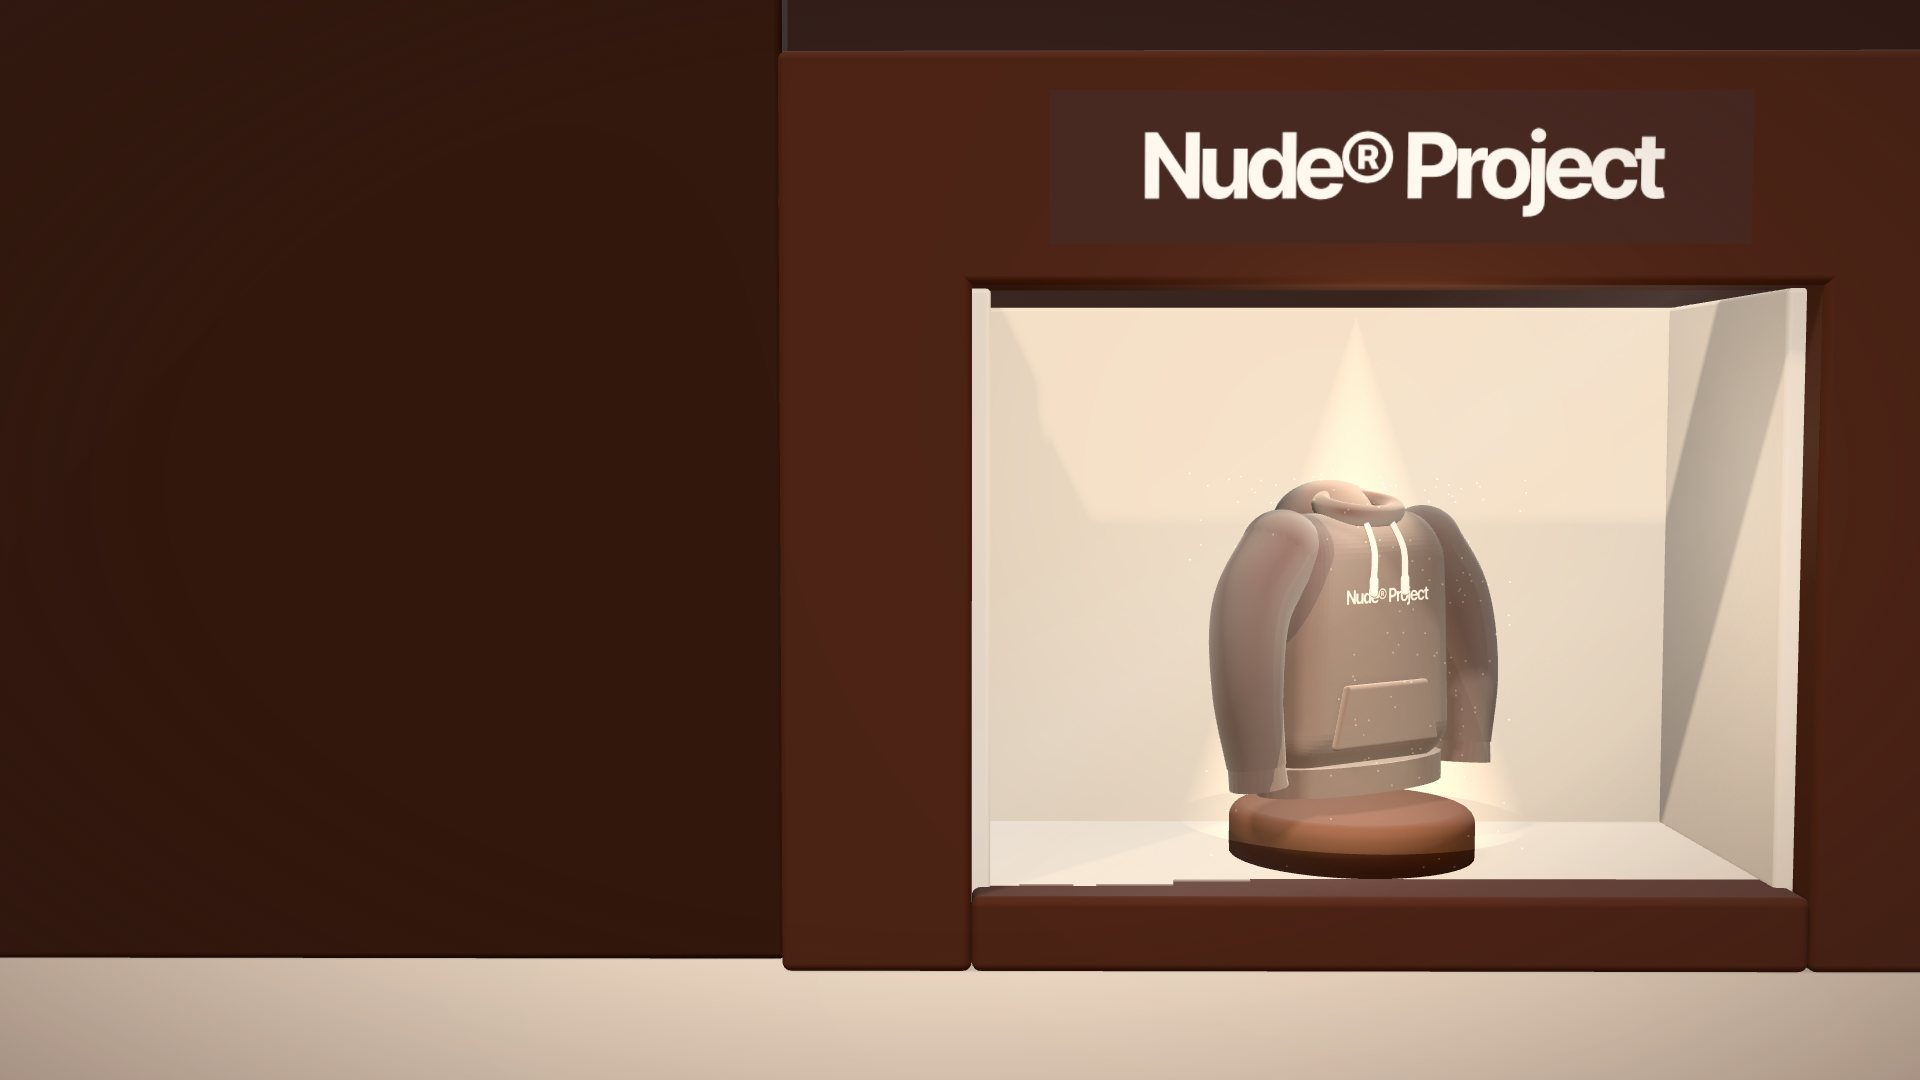
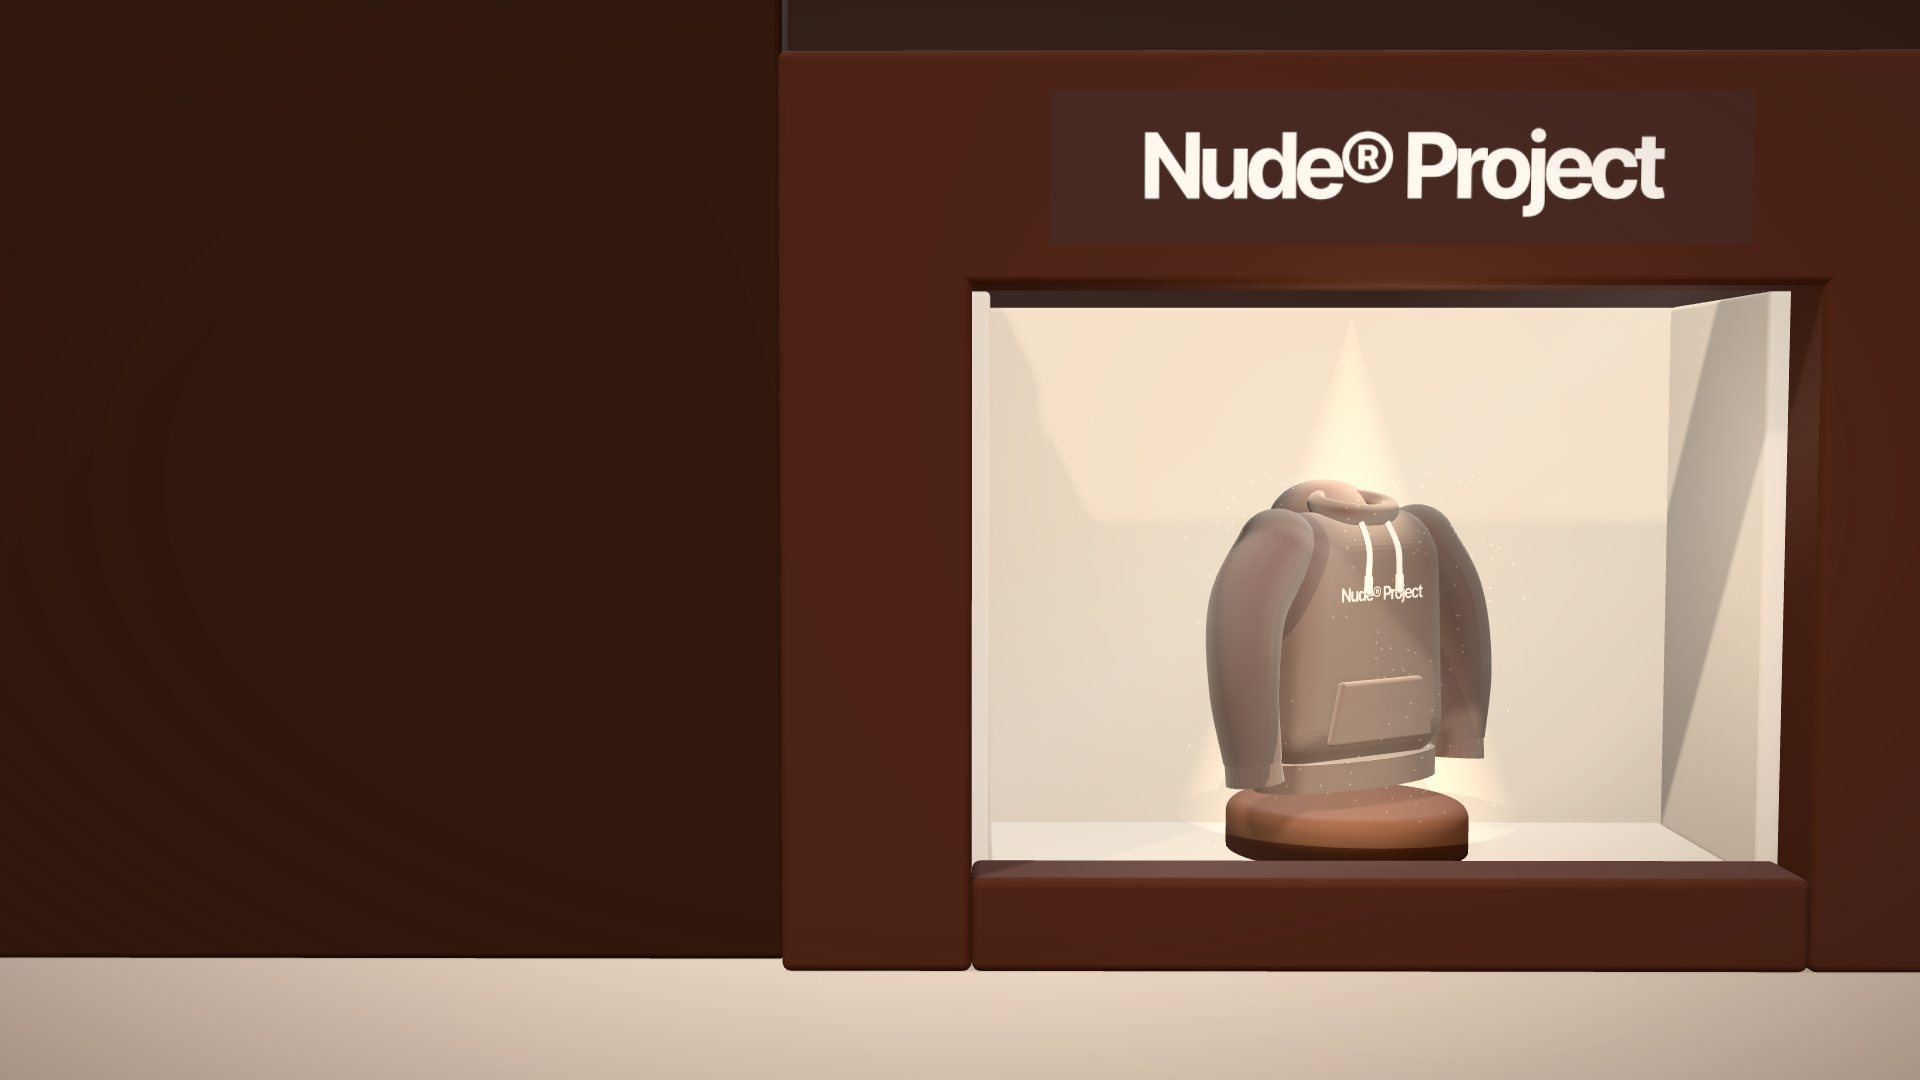
Presentación: pared viral visible y vidriera sin titileo
- Viral: pared de 24 celulares (8×3) con corazones que brotan de las
  pantallas; la sudadera, más chica, se corre hacia el texto y tapa apenas
  una esquina.
- Drop Rush: el zócalo de la vidriera y el piso interior compartían la cara
  de arriba y titilaban (z-fighting). Ahora el zócalo sobresale 10 cm, las
  piezas del interior ya no se pisan y el pedestal queda separado del zócalo.
- Mismo arreglo para el zócalo de la pared de acento de la Nude House.
- Imágenes de respaldo regeneradas.

Claude-Session: https://claude.ai/code/session_013aB8h25UpNoZyg8ESEKa9q

Changed region(s): [[0.5, 0.2444, 0.9688, 0.8556], [0.625, 0.4889, 0.6562, 0.5194]]

diff --git a/design-system/escena/mundo.js b/design-system/escena/mundo.js
@@ -415,34 +415,42 @@ function corazonGeo() {
 }
 function estacionViral(g) {
   g.add(pisoSombra());
-  // Panel con la misma publicación en todos los celulares, como cuando algo se hace viral.
+  // Pared de celulares con la misma publicación, como cuando algo se hace viral. La prenda queda a la izquierda,
+  // junto al texto, y la pared ocupa el resto: la tapa apenas en una esquina.
   const tex = publicacionViral();
   const panel = new THREE.Group();
-  const cols = 5, filas = 2, pw = 0.66, ph = pw * 2.1, sx = 0.9, sy = ph + 0.2;
-  panel.add(caja(cols * sx + 0.24, filas * sy + 0.3, 0.16, C.marca.arena, 0, 0, -0.08, 0.08));
-  for (let i = 0; i < cols; i++) for (let j = 0; j < filas; j++) {
+  const cols = 8, filas = 3, pw = 0.48, ph = 1.0, sx = 0.6, sy = 1.12;
+  panel.add(caja(cols * sx + 0.24, (filas - 1) * sy + ph + 0.4, 0.14, C.marca.arena, 0, 0, -0.07, 0.07));
+  const pantallas = [];
+  for (let j = 0; j < filas; j++) for (let i = 0; i < cols; i++) {
     const c = celular(tex, pw, ph, false);
-    c.position.set((i - (cols - 1) / 2) * sx, 0.25 + j * sy, 0.08);
+    c.position.set((i - (cols - 1) / 2) * sx, 0.2 + j * sy, 0.08);
     panel.add(c);
+    pantallas.push(c.position.clone());
   }
-  panel.position.set(1.5, 0, -3.6);
+  panel.position.set(2.25, 0, -3.2);
+  panel.rotation.y = -0.1;
   g.add(panel);
-  // Corazones que suben a los costados de la prenda (nunca la cruzan por delante).
+  // Corazones que brotan de los celulares (likes en vivo): suben un poco delante de su pantalla y se apagan.
   const geo = corazonGeo();
   const mat = clay(C.acento.rosa, { roughness: 0.8 });
-  const corazones = Array.from({ length: 12 }, (_, i) => {
+  const corazones = Array.from({ length: 14 }, (_, i) => {
     const m = malla(geo, mat);
-    const lado = i % 2 ? 1 : -1;
-    m.userData = { lado, x: lado * (lado > 0 ? 1.55 + (i % 3) * 0.22 : 1.5 + (i % 3) * 0.12), z: -0.35 + ((i * 7) % 5) * 0.16, fase: (Math.floor(i / 2) / 6), s: 0.24 + (i % 3) * 0.05 };
+    const origen = pantallas[(i * 11) % pantallas.length].clone().add(V(0, 0.3, 0.22)).applyAxisAngle(V(0, 1, 0), panel.rotation.y).add(panel.position);
+    m.userData = { origen, fase: i / 14, s: 0.15 + (i % 3) * 0.03 };
     g.add(m);
     return m;
   });
   const ancla = new THREE.Object3D();
-  ancla.position.set(0, 0.32 + LEVITA, 0);
-  g.add(ancla, pedestal(P['pedestal-crema'], 0.9));
+  ancla.position.set(0, 0.3 + LEVITA, 0.3);
+  const ped = pedestal(P['pedestal-crema'], 0.75, 0.3);
+  ped.position.z = 0.3;
+  g.add(ancla, ped);
   let reloj = 0;
   return {
-    tema: 'crema', encuadre: 'editorial', ancla, escala: 0.9,
+    tema: 'crema', encuadre: 'editorial', ancla, escala: 0.72,
+    // La prenda a ~57 % del ancho (no al 72 % de siempre), para dejarle lugar a la pared.
+    mira: V(1.2, 1.6, 0),
     actualizar(dt, t, presencia) {
       // Contador de likes: arranca cuando llega la cámara y sube hasta pasar el medio millón.
       reloj = presencia > 0.95 ? reloj + dt : presencia < 0.05 ? 0 : reloj;
@@ -451,10 +459,10 @@ function estacionViral(g) {
       const crecer = smoothstep(presencia, 0.3, 1);
       for (const m of corazones) {
         const d = m.userData;
-        const v = (t / 6 + d.fase) % 1; // 0 → 1 mientras sube
-        m.position.set(d.x + Math.sin((t + d.fase * 9) * 1.3) * 0.08, 0.5 + v * 3.0, d.z);
-        m.rotation.set(0, Math.sin(t + d.fase * 6) * 0.5, d.lado * -0.15);
-        m.scale.setScalar(d.s * crecer * Math.sin(Math.PI * Math.min(v * 1.15, 1)));
+        const v = (t / 2.6 + d.fase) % 1; // 0 → 1 mientras sube
+        m.position.copy(d.origen).add(V(Math.sin((t + d.fase * 9) * 2) * 0.04, v * 0.6, 0));
+        m.rotation.set(0, Math.sin(t + d.fase * 6) * 0.4, 0);
+        m.scale.setScalar(d.s * crecer * Math.sin(Math.PI * v));
       }
     },
   };
@@ -464,7 +472,7 @@ function estacionExperiencial(g) {
   // Piso de madera, pared clara detrás del texto y pared de acento marrón (el tono de la tienda) detrás de la prenda.
   habitacion(g, { x0: -7, x1: 7, piso: P['casa-piso'], pared: C.juego['fachada-1'] });
   g.add(fondo(caja(8.6, 6, 0.32, P['casa-pared'], 2.7, -0.3, -4.24, 0.04)));
-  g.add(fondo(caja(8.6, 0.14, 0.05, C.marca.crema, 2.7, 0, -4.06, 0.02)));
+  g.add(fondo(caja(8.6, 0.16, 0.07, C.marca.crema, 2.7, 0, -4.045, 0.02))); // más alto y profundo que el de la pared clara: no comparten caras
   const neon = new THREE.Mesh(new THREE.PlaneGeometry(2.4, 0.6), new THREE.MeshBasicMaterial({ map: neonNudeHouse(), transparent: true, toneMapped: false, depthWrite: false }));
   neon.position.set(0.9, 3.35, -4.06);
   g.add(fondo(neon));
@@ -661,13 +669,15 @@ function estacionDropRush(g) {
   g.add(fondo(caja(18, 0.4, 3.2, C.juego.vereda, 0, -0.4, 0.4, 0.06)));
   const tienda = C.juego.tienda;
   const fachada = new THREE.Group();
+  // El zócalo de la vidriera sobresale 10 cm del piso interior, y cada pieza termina donde empieza la otra:
+  // dos caras a la misma altura que se pisan titilan (z-fighting).
   fachada.add(caja(1.0, 4.8, 0.5, tienda, -2.7, 0, -1.1, 0.05), caja(1.0, 4.8, 0.5, tienda, 2.7, 0, -1.1, 0.05),
-    caja(6.4, 1.2, 0.5, tienda, 0, 3.6, -1.1, 0.05), caja(4.4, 0.4, 0.5, tienda, 0, 0, -1.1, 0.05));
+    caja(6.4, 1.2, 0.5, tienda, 0, 3.6, -1.1, 0.05), caja(4.4, 0.5, 0.5, tienda, 0, 0, -1.1, 0.05));
   // Paredes vecinas, más oscuras, para que la vidriera sea la única luz de la calle.
   fachada.add(caja(5, 6, 0.4, C.marca['cacao-profundo'], -5.7, 0, -1.3, 0.04), caja(5, 6, 0.4, C.marca['cacao-profundo'], 5.7, 0, -1.3, 0.04));
   // Interior de la vidriera: fondo cálido iluminado.
-  fachada.add(caja(4.4, 3.4, 0.2, C.juego['fachada-1'], 0, 0.2, -3.0, 0.03), caja(4.4, 0.2, 2.0, C.marca.arena, 0, 0.2, -2.1, 0.03));
-  fachada.add(caja(0.2, 3.4, 2.0, C.marca.arena, -2.2, 0.2, -2.1, 0.03), caja(0.2, 3.4, 2.0, C.marca.arena, 2.2, 0.2, -2.1, 0.03));
+  fachada.add(caja(4.6, 3.4, 0.2, C.juego['fachada-1'], 0, 0.2, -3.0, 0.03), caja(4.2, 0.2, 1.55, C.marca.arena, 0, 0.2, -2.125, 0.03));
+  fachada.add(caja(0.2, 3.4, 1.55, C.marca.arena, -2.2, 0.2, -2.125, 0.03), caja(0.2, 3.4, 1.55, C.marca.arena, 2.2, 0.2, -2.125, 0.03));
   const cartel = new THREE.Mesh(new THREE.PlaneGeometry(3.6, 0.78), new THREE.MeshBasicMaterial({ toneMapped: false, map: cartelTienda() }));
   cartel.position.set(0, 4.2, -0.84);
   fachada.add(cartel);
@@ -679,17 +689,17 @@ function estacionDropRush(g) {
     gr.addColorStop(0.5, 'rgba(255,255,255,.05)'); gr.addColorStop(0.62, 'rgba(255,255,255,.14)'); gr.addColorStop(0.75, 'rgba(255,255,255,0)');
     ctx.clearRect(0, 0, w, h); ctx.fillStyle = gr; ctx.fillRect(0, 0, w, h);
   });
-  const vidrio = new THREE.Mesh(new THREE.PlaneGeometry(4.4, 3.2), new THREE.MeshBasicMaterial({ map: reflejo, transparent: true, depthWrite: false, opacity: 0.55 }));
-  vidrio.position.set(0, 2.0, -0.9);
+  const vidrio = new THREE.Mesh(new THREE.PlaneGeometry(4.4, 3.1), new THREE.MeshBasicMaterial({ map: reflejo, transparent: true, depthWrite: false, opacity: 0.55 }));
+  vidrio.position.set(0, 2.05, -0.9);
   vidrio.renderOrder = 3;
   g.add(fondo(vidrio));
   const ped = pedestal(P['pedestal-cacao'], 0.7, 0.28);
-  ped.position.set(0, 0.4, -2.0);
+  ped.position.set(0, 0.4, -2.15); // a 10 cm del zócalo y de la pared del fondo
   g.add(ped);
   const ancla = new THREE.Object3D();
-  ancla.position.set(0, 0.68 + LEVITA, -2.0);
+  ancla.position.set(0, 0.68 + LEVITA, -2.15);
   g.add(ancla);
-  const f = foco(g, 0, 3.5, -2.0, 2.9, 1.0);
+  const f = foco(g, 0, 3.5, -2.15, 2.9, 1.0);
   const interior = new THREE.PointLight(P['luz-principal'], 6, 6, 2);
   interior.position.set(0, 2.6, -0.6);
   g.add(interior);

diff --git a/presentacion/index.html b/presentacion/index.html
@@ -143,7 +143,7 @@
         <p class="dato-vivo np-capa__entra"><span class="dato-vivo__icono" aria-hidden="true">♥</span><span><b>+<span data-contar="500000">500.000</span></b> likes en menos de 24 h</span></p>
       </div>
       <aside class="notas">
-        <p><em>La pared de celulares repite la publicación; los corazones suben a los costados y el contador pasa el medio millón.</em></p>
+        <p><em>La pared de 24 celulares repite la publicación; los corazones brotan de las pantallas y el contador pasa el medio millón.</em></p>
         <p>“Lo viral está en el ADN de la marca. Su primera sudadera, con la frase <i>pretty girls like trap music</i>, se volvió viral en una noche y les trajo 60.000 seguidores en 24 horas.</p>
         <p>La campaña que elegimos es <b>Out of Office</b>, de fines de agosto de 2025: una remera con un mensaje irónico sobre volver al trabajo, <i>Heading to work because I was too shy to dance on TikTok in 2020</i>. Superó el medio millón de likes en Instagram en menos de 24 horas.</p>
         <p>¿Por qué funcionó? Por el <b>tono</b>: ironía y humor. Por el <b>mensaje</b>: le habla a la frustración de quien, si hubiera hecho TikToks en 2020, hoy no tendría que entrar a trabajar a las 9. Por la <b>estética</b>: se fotografió en el metro, un escenario cotidiano y nada glamoroso. Por el <b>contexto</b>: salió justo cuando todos volvían de vacaciones. Y porque el <b>producto es el mensaje</b>: quien se pone la remera comparte el chiste.</p>

diff --git a/presentacion/PLANIFICACION.md b/presentacion/PLANIFICACION.md
@@ -127,7 +127,7 @@ Se arma en Three.js con piezas redondeadas (ver [`escena/sudadera.js`](../design
 | **0. Portada + hype colectivo** | Estudio cacao. Pedestal bajo un foco con su haz y polvo; sudaderas crema, arena y piedra flotan alrededor; *DROP 001* gigante detrás. Al terminar el cargador, la sudadera **cae al pedestal con un rebote**. En el hype: en la cuenta regresiva la luz se apaga y la sudadera sube fuera de cuadro; mientras se llena el medidor, el foco vuelve y la sudadera baja en proporción al hype; al 100 % cae entre papelitos con los colores de los grupos. | Cacao |
 | **1. La historia** | **La habitación**: ventana con luz, cama y una pila de cajas de envío. La sudadera levita sobre la caja abierta del pedido #0001 (solapas abiertas, papel de seda, etiqueta de envío y una luz cálida que sale de adentro). En la segunda diapositiva, los hitos 600 € → 26 M€ en la columna del texto. | Crema |
 | **2. EGC vs. UGC** | Dos **celulares gigantes** en su soporte, con feeds verticales que pasan solos (contenido de prueba hasta la fase 3) y una etiqueta debajo de cada uno; la sudadera, en el centro sobre un pedestal, gira hacia uno y otro. | Arena |
-| **3. Marketing viral** | Un **panel de celulares** con la publicación de *Out of Office* y su contador de likes, y **corazones *clay*** que suben a los costados de la prenda (nunca la cruzan). En el texto, la cifra cuenta hasta +500.000. | Rosa |
+| **3. Marketing viral** | Una **pared de 24 celulares** con la publicación de *Out of Office* y su contador de likes, y **corazones *clay*** que brotan de las pantallas como likes en vivo. La prenda se corre hacia el texto y tapa apenas una esquina de la pared. En el texto, la cifra cuenta hasta +500.000. | Rosa |
 | **4. Marketing experiencial** | **El salón de la Nude House**: pared de acento marrón con el neón *Nude House*, piso de madera, alfombra, perchero con sudaderas (cada una en su percha), estante con vinilos y tocadiscos, planta y lámpara de pie. La sudadera cuelga de frente en un perchero de exhibición: la percha sale por el escote y el gancho abraza la barra. | Bosque |
 | **5. Métricas** | **Vista desarmada:** capucha, mangas, bolsillo y cuerpo se separan, y cada pieza lleva una **etiqueta flotante** con un dato. En la segunda diapositiva la cámara se corre a un **gráfico de barras hecho con pilas de sudaderas dobladas** (100 mil seguidores cada una, 2024 contra hoy) y la sudadera, armada, corona la más alta. | Marino |
 | **6. Objetivo comunicacional** | **Plano medio** de la sudadera sola, girada hacia la frase de Bruno, con el logo bordado bien grande; la frase en la columna libre de la izquierda. | Cacao |

diff --git a/design-system/README.md b/design-system/README.md
@@ -98,7 +98,7 @@ La presentación es el **lanzamiento de un producto contado en una sola toma** (
 | 0 | Portada + hype | Pedestal bajo un foco, sudaderas flotando y *Drop 001* gigante detrás. En el hype la luz se apaga, la prenda sube y baja con el medidor y cae entre papelitos con los colores de los grupos | cacao | cacao | centro |
 | 1 | La historia | La habitación: ventana, cama y pila de cajas; la sudadera levita sobre la caja abierta del pedido #0001 (solapas abiertas, papel de seda y etiqueta de envío) | crema | crema | editorial |
 | 2 | EGC vs. UGC | Dos celulares en su soporte con feeds verticales que pasan solos; la prenda gira hacia uno y otro | arena | crema | centro |
-| 3 | Marketing viral | Panel de celulares con la publicación de *Out of Office* y su contador de likes; corazones *clay* que suben a los costados | rosa | crema | editorial |
+| 3 | Marketing viral | Pared de 24 celulares con la publicación de *Out of Office* y su contador de likes, con corazones *clay* que brotan de las pantallas; la prenda se corre a la izquierda para dejarla ver | rosa | crema | editorial |
 | 4 | Marketing experiencial | Salón de la Nude House: pared de acento con neón, perchero con sudaderas en sus perchas, estante con vinilos, planta y lámpara; la prenda cuelga de frente en un perchero de exhibición | bosque | crema | editorial |
 | 5 | Métricas | Vista desarmada con etiquetas flotantes; en la pose *pilas*, barras hechas con sudaderas dobladas (2024 contra hoy) y la prenda arriba de la más alta | marino | crema | editorial |
 | 6 | Objetivo comunicacional | Plano medio de la prenda girada hacia la frase de Bruno, con el logo bordado bien grande | cacao | crema | macro |

diff --git a/presentacion/GUION.md b/presentacion/GUION.md
@@ -63,7 +63,7 @@ Mientras votan, les cuento la pregunta que guía esta presentación: ¿cómo se 
 
 ## 3. Marketing viral (~2:00)
 
-*[La pared de celulares repite la publicación; los corazones suben a los costados y el contador pasa el medio millón.]*
+*[La pared de 24 celulares repite la publicación; los corazones brotan de las pantallas y el contador pasa el medio millón.]*
 
 "Lo viral está en el ADN de la marca. Su primera sudadera, con la frase *pretty girls like trap music*, se volvió viral en una noche y les trajo 60.000 seguidores en 24 horas.
 
